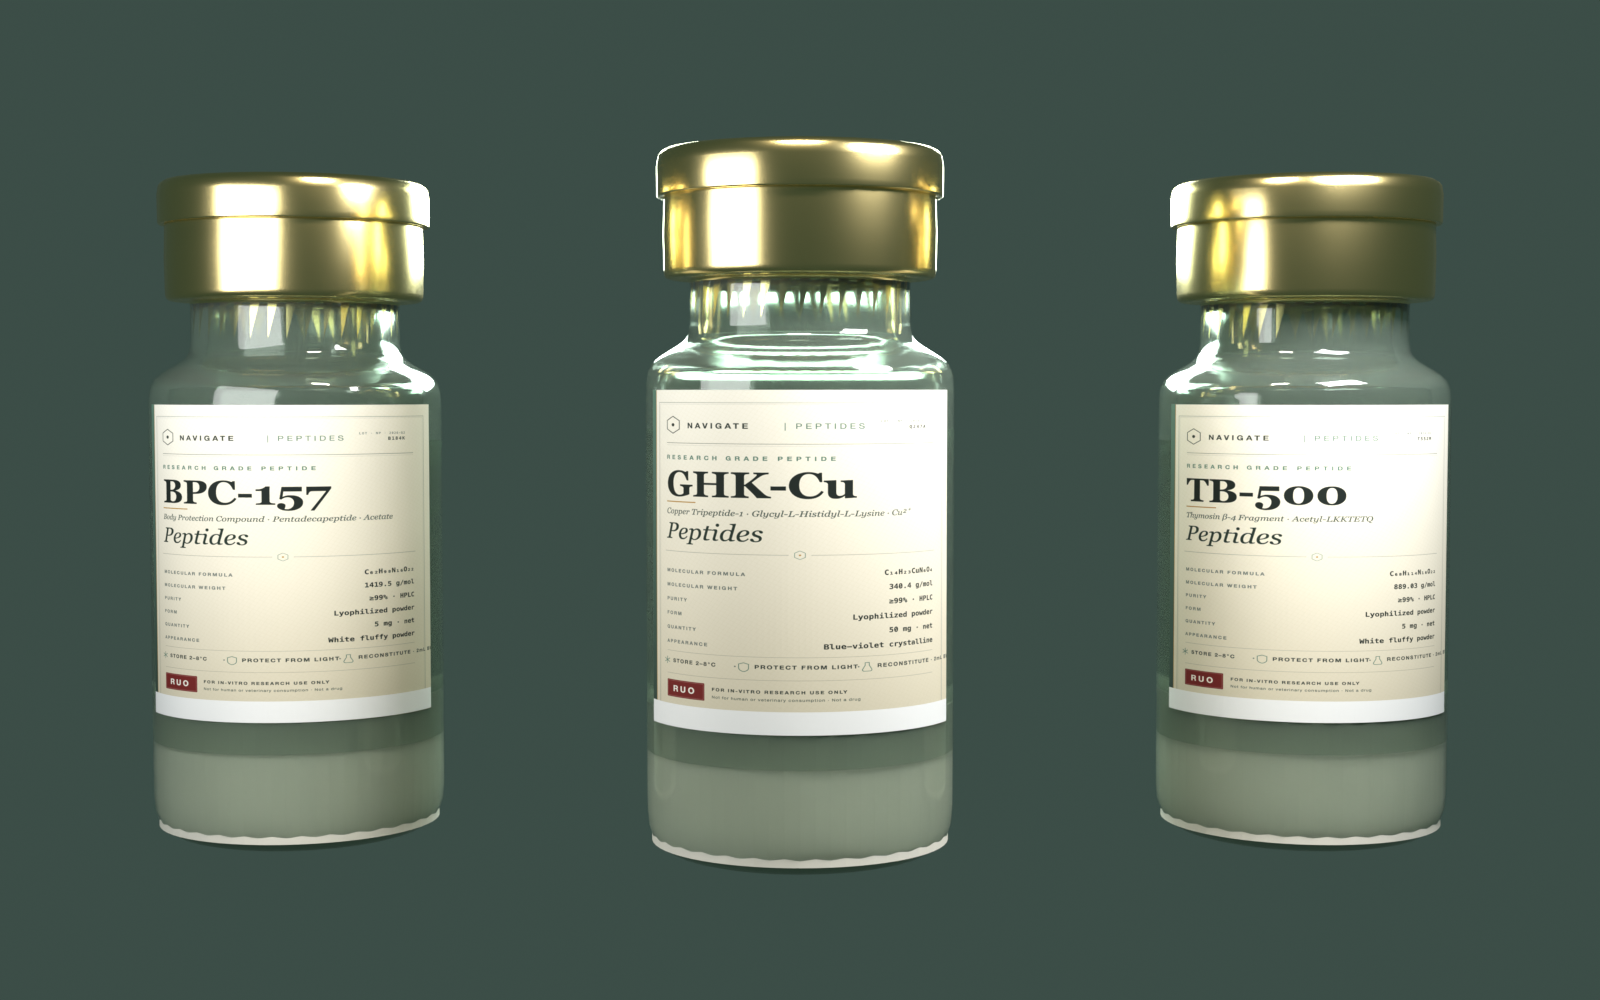
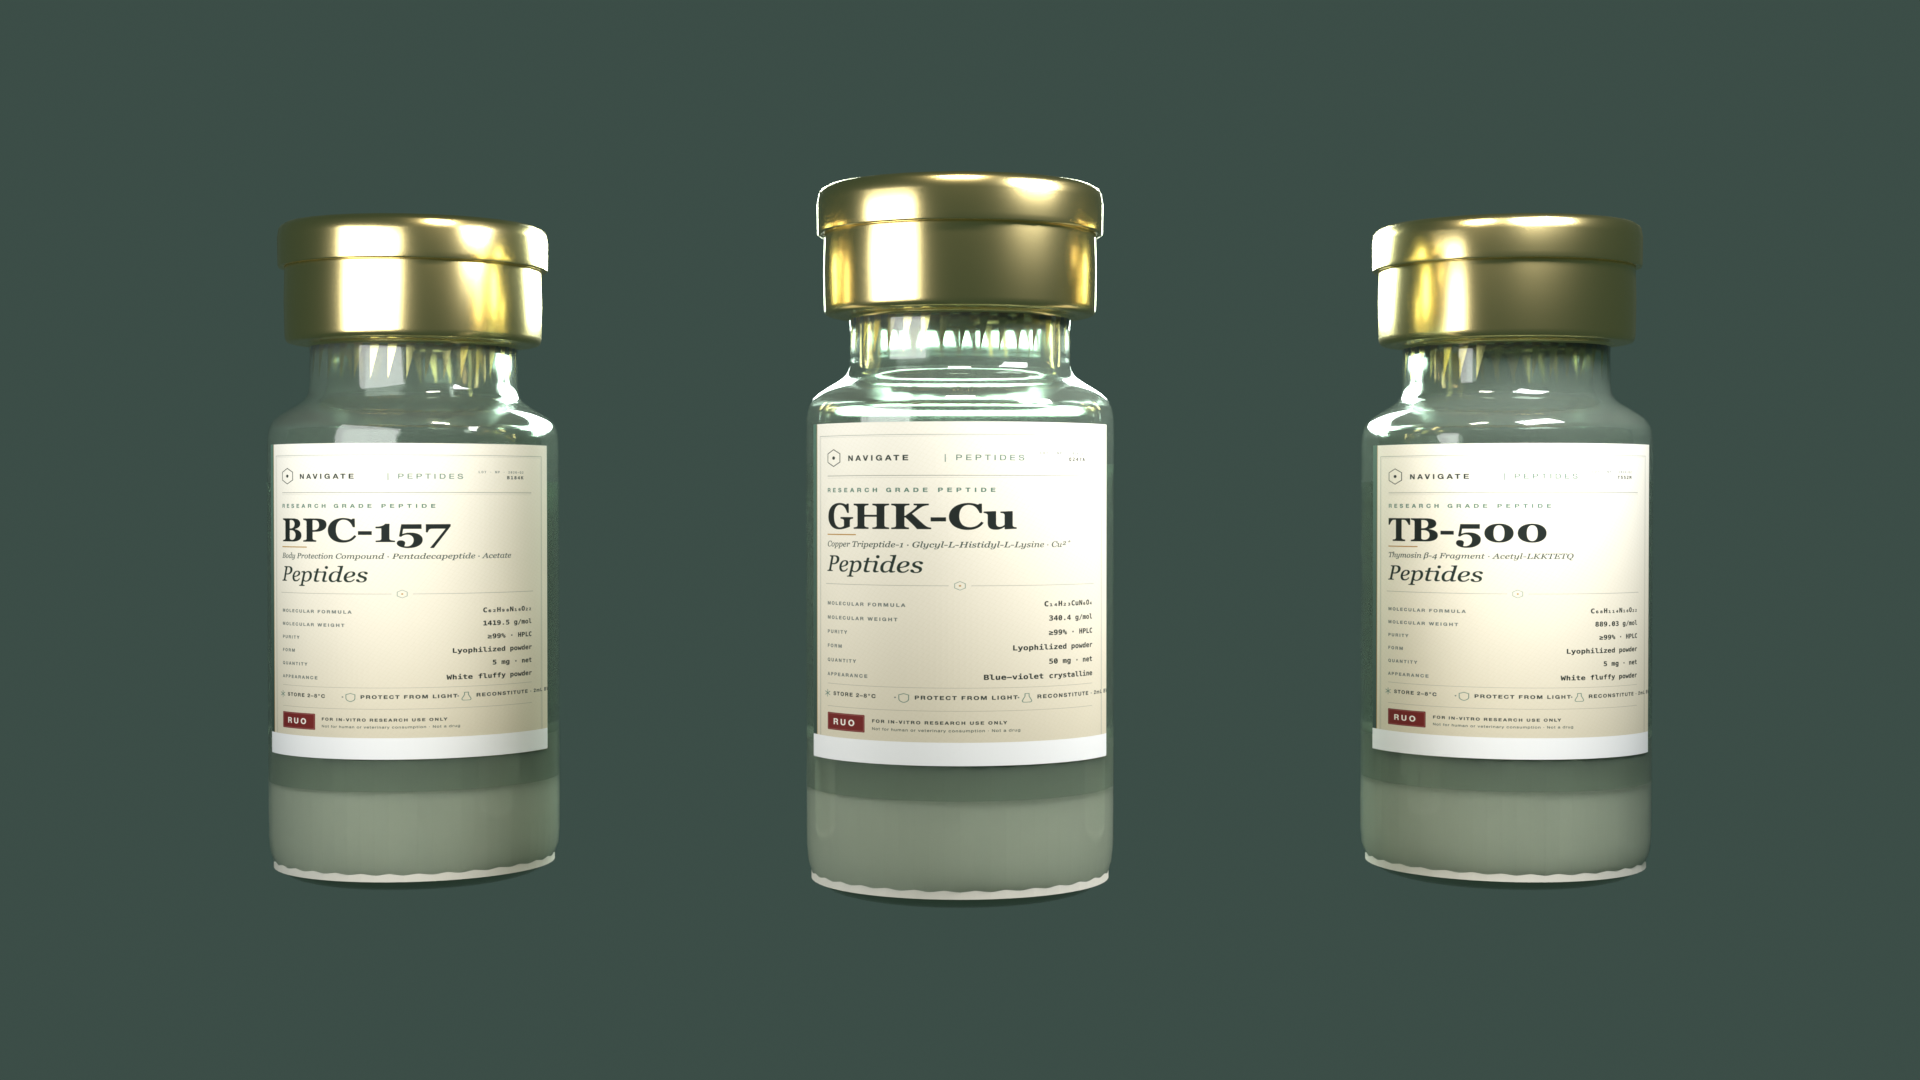
fix: show full 3-vial render (aspect-ratio 16:9, no max-height crop) (#26)
Container was max-height:320 with object-fit:cover, which cropped the
1920x1080 render to the cap band so users only saw the brass tops. Now
the container locks to 16:9 aspect-ratio matching the render so the
whole composition — cap, label, body, powder — displays without crop.
Also bumps render to 1920x1080 for sharper display.

Changed region(s): [[0.0938, 0.155, 0.3125, 0.868], [0.6875, 0.155, 0.9062, 0.868], [0.4062, 0.124, 0.5938, 0.899]]

diff --git a/wp-content/themes/navigate-peptides/assets/css/main.css b/wp-content/themes/navigate-peptides/assets/css/main.css
@@ -1617,7 +1617,10 @@ body.admin-bar .nav-header {
     border-radius: var(--nav-radius-lg);
     overflow: hidden;
     border: 1px solid var(--nav-border-subtle);
-    max-height: 320px;
+    /* Match the 16:9 render so the full branded vials render instead of
+       being cropped to the cap band by object-fit: cover. */
+    aspect-ratio: 16 / 9;
+    background: #0a1311;
 }
 
 .nav-about-visual img {
@@ -1625,13 +1628,7 @@ body.admin-bar .nav-header {
     height: 100%;
     object-fit: cover;
     display: block;
-    opacity: 0.85;
-}
-
-@media (max-width: 767px) {
-    .nav-about-visual {
-        max-height: 200px;
-    }
+    opacity: 1;
 }
 
 .nav-about-grid {
